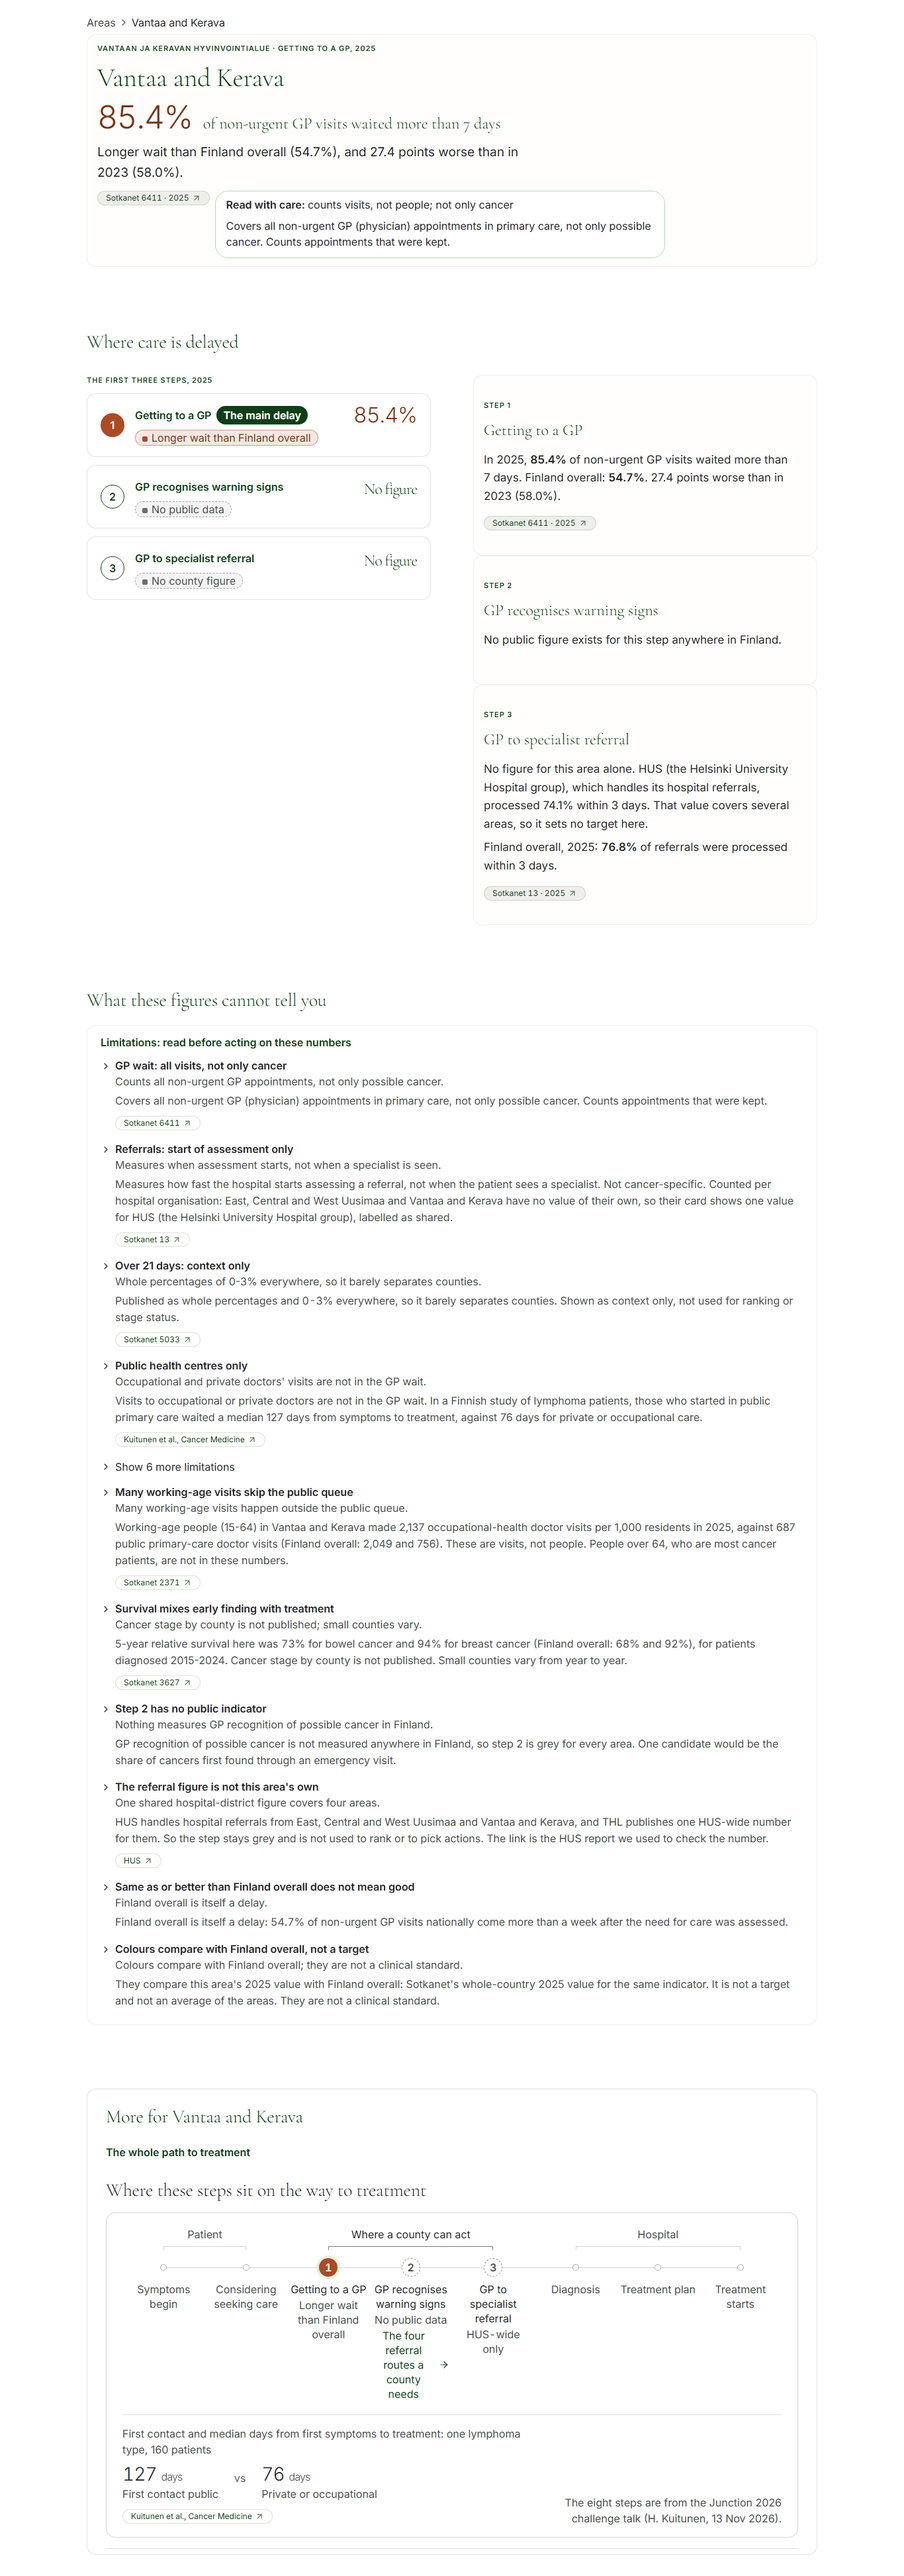
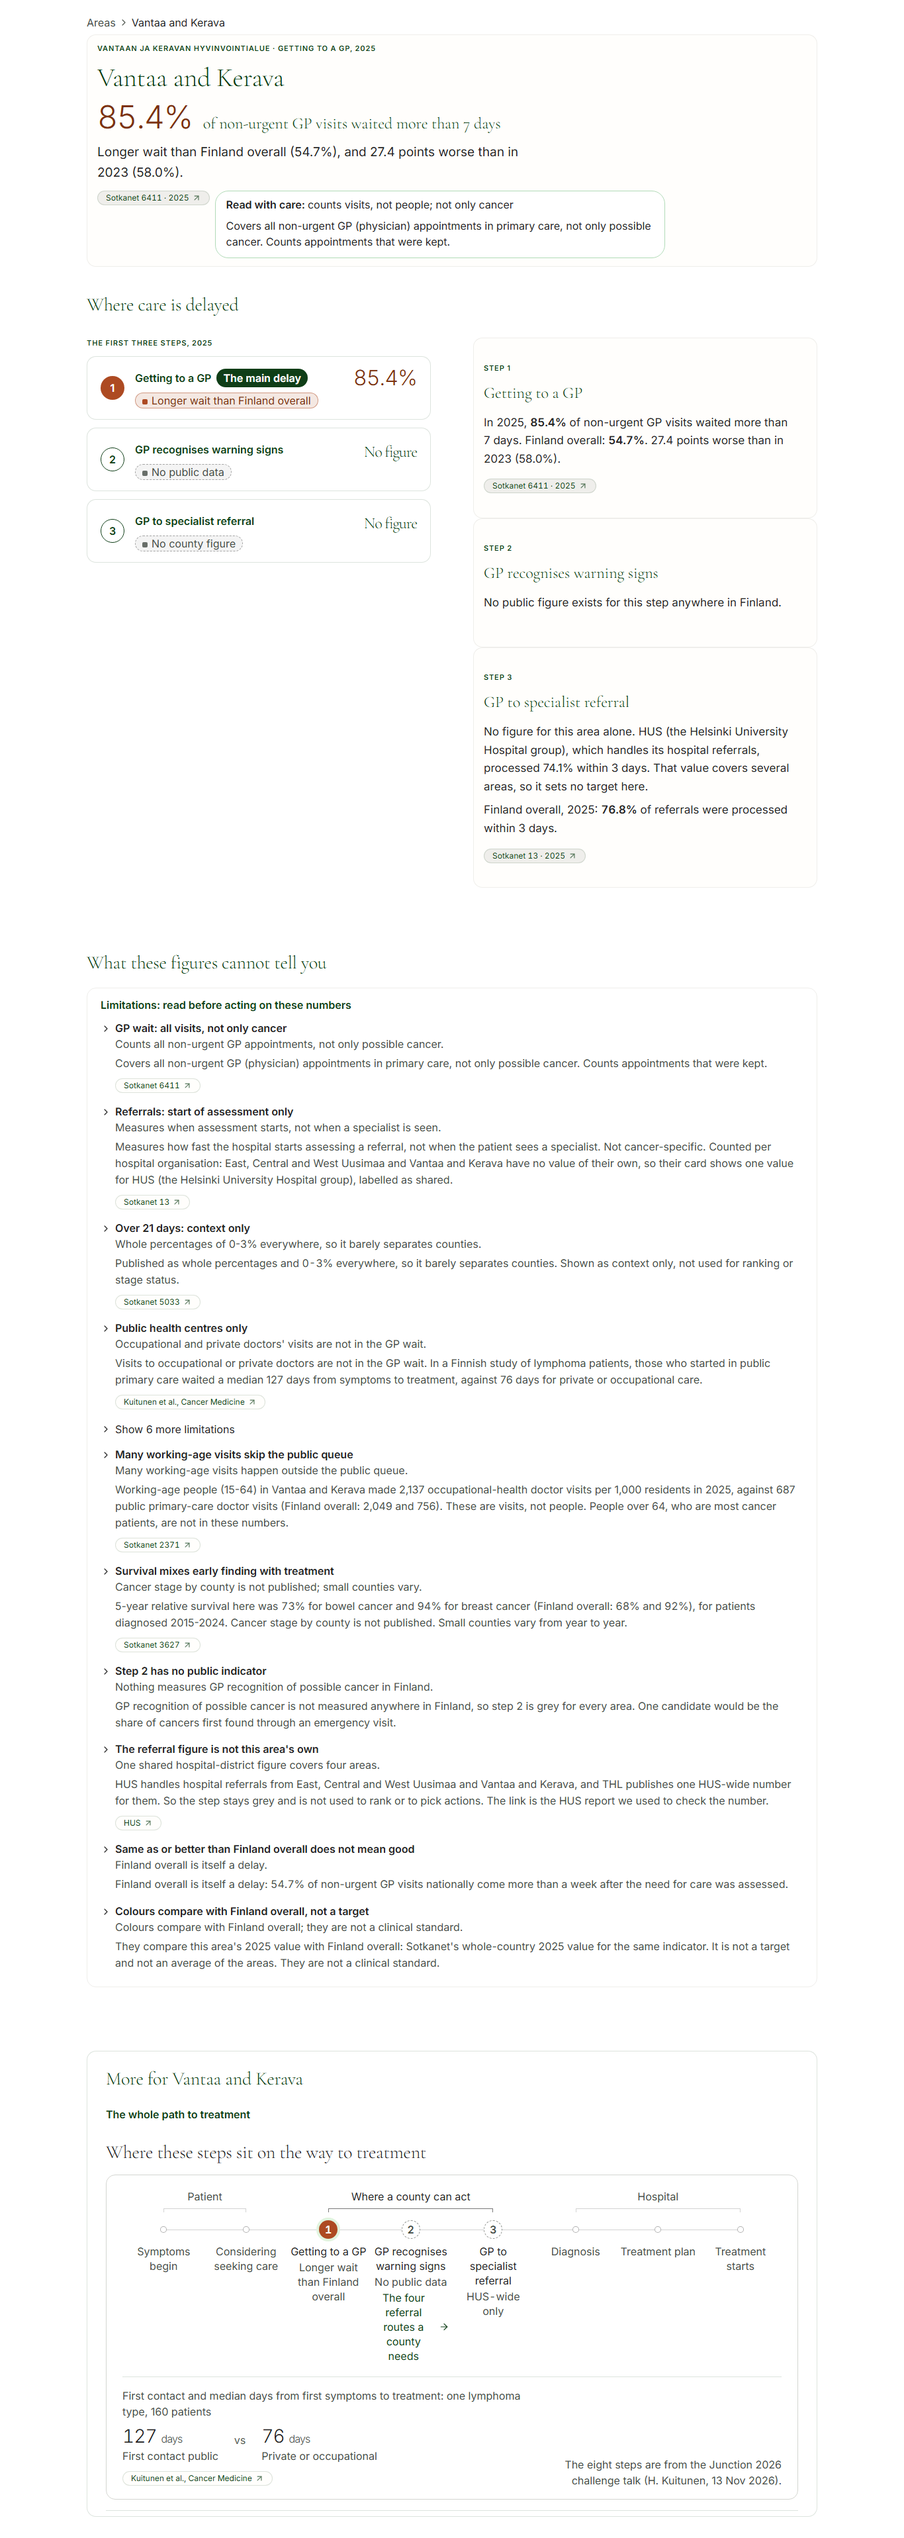
docs(county): second-pass notes, all-area Why? check, settled no-JS captures

diff --git a/docs/audit/county/notes.md b/docs/audit/county/notes.md
@@ -26,10 +26,12 @@ How, with nothing removed (`area-lead.tsx`, `page.tsx`):
 - **From 640px the unit runs on one line beside the numeral**: "85.4% of non-urgent GP visits waited more than 7 days" now reads as one sentence. This saves about 33px. It uses a local `LeadFigure` with the same face and sizes as the shared `ChunkFigure`, whose unit is capped at 22ch.
 - **On a phone, the eyebrow drops the Finnish name** ("Vantaan ja Keravan hyvinvointialue · ") so it stays on one line. Desktop keeps it.
 - **Spacing:** the hero gap is 16px (was 20px), the stray `pt-2` above the buttons is gone, and the page's top padding is 16px at every width (was 24px from 640px).
+- **No false floor:** with the shorter hero, the space under it had become a blank band at 1366×768, which made the page look finished. The steps section's top gap is now 40px (32px on a phone; it was 96px / 64px). "Where care is delayed" now shows on the first screen: its top is at y=701 (y=671 for referral-led areas such as Kainuu), and the button doesn't move (`after-vantaa-kerava-d-s00.png`).
+- Settled positions are listed above. Measured straight after `networkidle`, while the focus card is still scaling in, the phone button ends 4px lower: y=818 for most areas, and up to y=844 for Kainuu, Central Ostrobothnia and Pirkanmaa.
 
 ### 2. Hierarchy: step titles outranked their section heading
 Measured before: h1 40px, section h2 "Where care is delayed" 28px, and each step's h3 **40px** (32/24/32 on a phone). The step titles were larger than the heading above them, which is the pattern R3-04 docked on the act page.
-- After: h1 40, h2 28, h3 **24** (phone: 32/24/24), the same scale the act page uses since R3-04.
+- After: h1 40, h2 28, h3 **24** (phone: 32/24/**20**), the same steps the act page has used since R3-04, so a section heading outranks its step titles at both widths.
 - The two section h2s now use `type-title`. Their old `text-[2rem] sm:text-[2.75rem] max-w-[24ch]` classes never applied, because the unlayered `h2` rule in `globals.css` wins. The visible size is unchanged, but "What these figures cannot tell you" now fits on one line instead of breaking after "figures".
 
 ### 3. Clarity: each step's text now reads as a sentence
@@ -44,7 +46,10 @@ The pill was in the sticky step list and again on the text card beside it. It is
 ### 5. Step list: the status tag wrapped
 "Same as or better than Finland overall" wrapped to two lines on desktop (Kainuu, step 1), and on a phone "Longer wait than Finland overall" took three. Each step is now a small grid: number, name and figure on the first row, and the status tag on the second, running under the figure too.
 - Desktop: one line for every label.
-- Phone: two lines at most (`after-vantaa-kerava-m-s02.png`).
+- Phone: two lines at most, on the longest label too ("Same as or better than Finland overall": `after-kainuu-m-s02.png`, `after-east-uusimaa-m-s02.png`, `after-vantaa-kerava-m-s02.png`).
+
+### Not seen in the build
+The "Sotkanet publishes no figure for this area" branch of the step text is unreachable with today's data. The only steps without a figure of their own are the four HUS-shared referral steps (Central, East and West Uusimaa, Vantaa and Kerava), and those take the shared-figure branch. That branch was type-checked but never rendered.
 
 ## Kept as it was
 - The scroll-driven reveal (`motion-loud`), the sticky step picture, the mint focus card (`FocusGroup`) and the step story. None of the motion changed.
@@ -63,9 +68,9 @@ I dumped the main text of Vantaa and Kerava, Kainuu, East Uusimaa and Helsinki w
 - **Sideways scroll at 390px:** none on any of the 22 areas, including with "Why?" open.
 - **Text under 16px:** none, apart from the 11px eyebrows.
 - **Console errors:** none.
-- **"Why?":** opens at both widths (`after-vantaa-kerava-{d,m}-why-open.png`).
+- **"Why?":** the hero's "Why?" opens on all 22 areas at both widths, with no sideways scroll when open (`after-vantaa-kerava-{d,m}-why-open.png`).
 - **Reduced motion:** 0 elements left below full opacity, and the full page is present (`after-vantaa-kerava-reduced-full.png`).
-- **No JavaScript:** the full page renders (`after-vantaa-kerava-nojs-full.png`).
+- **No JavaScript:** after 2.5s, 0 text elements are below full opacity at both widths, and the full page and the button are visible (`after-vantaa-kerava-nojs-{d,m}-full.png`). A capture taken at once catches the CSS-only stagger mid-play. Round 4's build does the same, so this is not new.
 - **Print:** everything is expanded, the steps print in sequence and the caveats are open (`after-vantaa-kerava-print-full.png`).
 - **Contrast:** no colour changed. The same tokens sit on the same surfaces, so AA holds as measured in the contract.
 
@@ -86,6 +91,9 @@ I dumped the main text of Vantaa and Kerava, Kainuu, East Uusimaa and Helsinki w
 | Motion & interaction 10% | 8.5 | 8.5 | Unchanged by design. The long 75vh slots between short step cards are the shared ScrollStory's. |
 | Accessibility 5% | 9.0 | 9.0 | Unchanged: the same contrast, ≥16px text, DOM order kept (the status is still read before the figure). |
 | **Weighted** | **8.7** | **≈8.95** | 0.25×9 + 0.25×9 + 0.2×9 + 0.15×9 + 0.1×8.5 + 0.05×9 = 8.95. That is at the 9.0 line, not clearly over it: a judge who holds clarity or hierarchy at 8.5 lands at about 8.85. |
+
+## For the team lead to decide
+- On a phone, the hero eyebrow drops the Finnish area name ("Vantaan ja Keravan hyvinvointialue") so it fits on one line. Desktop and print keep it. If the Finnish name matters on phones too, revert that one `<span className="max-sm:hidden">`; the phone button then ends about 16px lower, still on the first screen for most areas.
 
 ## Needs from owners of shared components
 - **`components/pathway/limitations-box.tsx` (shared):** the page's h2 "What these figures cannot tell you" sits directly above the box's own h2, "Limitations: read before acting on these numbers". That is two headings saying the same thing. Suggestion: an optional `title={null}` (or a `hideTitle` prop), so the county page can keep its section h2 alone.
